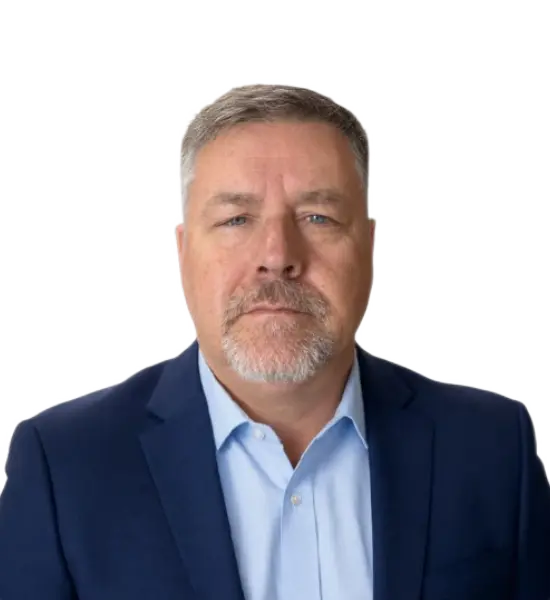
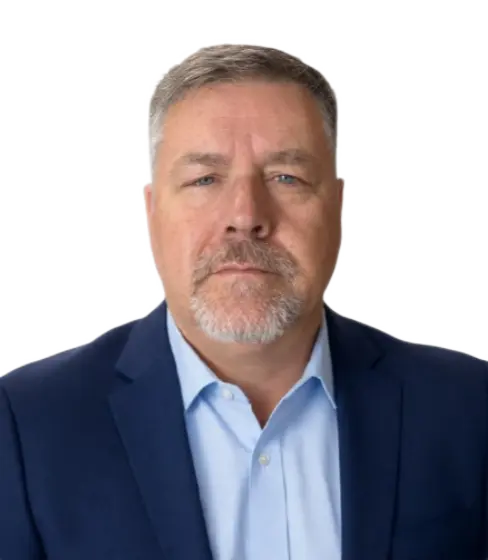
Team page reviewed

diff --git a/src/blocks/team.html b/src/blocks/team.html
@@ -43,7 +43,7 @@
     @@include('src/blocks/teamCard.html',{"path":"${{ron-shepherd.path}}$",
     "firstName":"${{ron-shepherd.firstName}}$",
     "lastName":"${{ron-shepherd.lastName}}$",
-    "practice":"pf-dd pf-us",
+    "practice":"pf-dd pf-customs pf-us",
     "jobTitle":"${{ron-shepherd.jobTitle}}$",
     "country":"${{ron-shepherd.country}}$",
     "path":"${{ron-shepherd.path}}$"